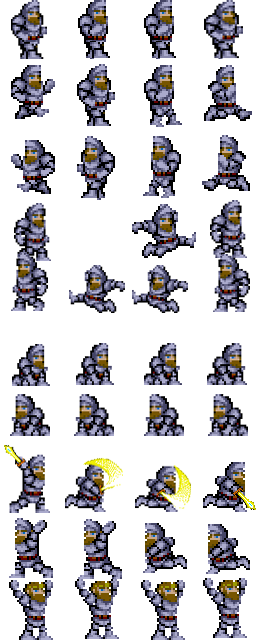
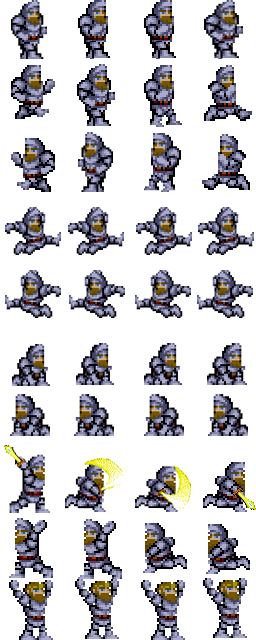
jump movement done but without phisics

Changed region(s): [[0.0, 0.1875, 1.0, 0.5]]

diff --git a/classes.js b/classes.js
@@ -106,6 +106,8 @@ function animations() {
     arthur.srcY = arthur.duckRowRight * arthur.height;
   } else if (arthur.atkRight) {
     arthur.srcY = arthur.atkRowRight * arthur.height;
+  } else if (arthur.jumpRight) {
+    arthur.srcY = arthur.jumpRowRight * arthur.height;
   }
 }
 
@@ -116,8 +118,7 @@ function resetAnimations() {
   arthur.goRight = false;
   arthur.duckRight = false;
   arthur.atkRight = false;
-  // knight.jumpLeft = false;
-  // knight.jumpRight = false;
+  arthur.jumpRight = false;
 }
 
 
@@ -159,6 +160,9 @@ window.onkeydown = function (event) {
       break;
     case 32: // jumping key
       console.log('Im not going to jump now!');
+      event.preventDefault();
+      arthur.right = true;
+      arthur.jumpRight = true;
       break;
     case 65: //fight key
       console.log('Im ready, ¡FIGHT!');
